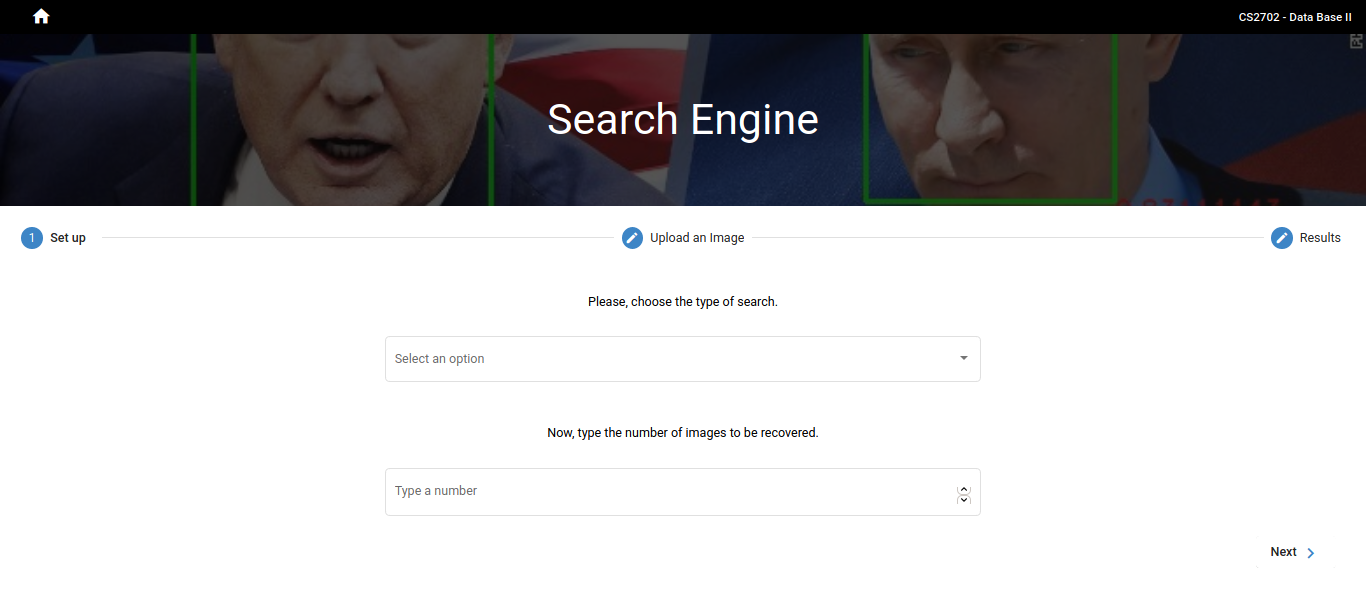
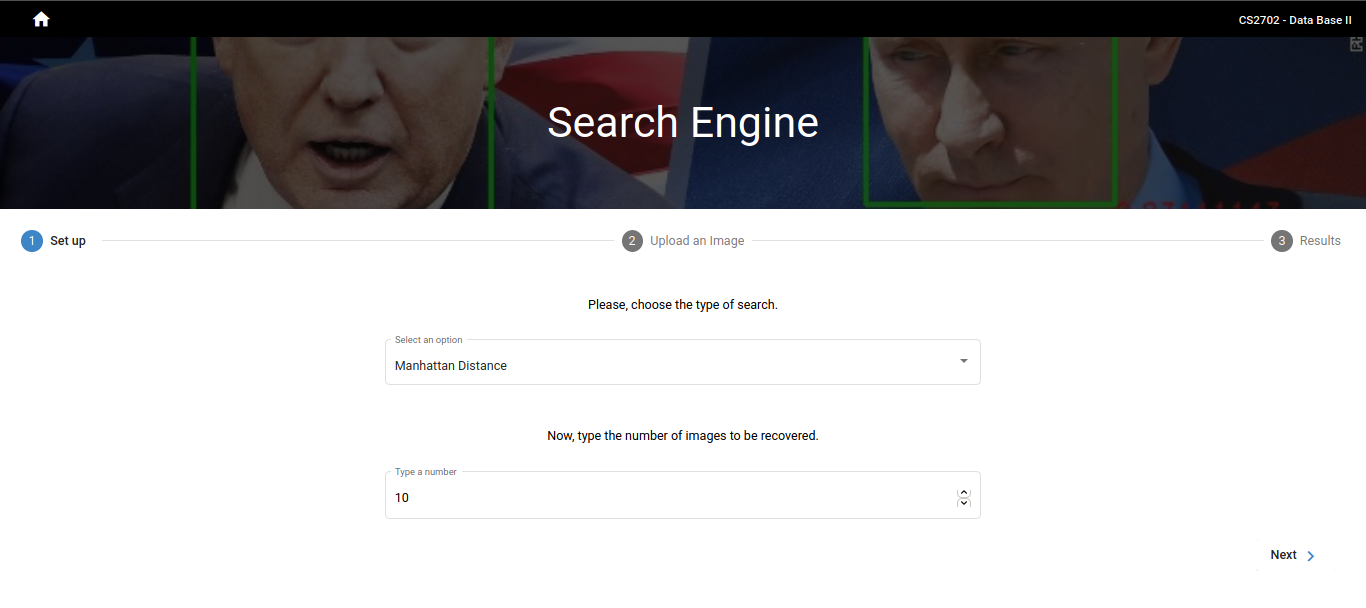
report update

diff --git a/README.md b/README.md
@@ -8,7 +8,7 @@
   - [Group members](#group-members)
 - [Implementation](#implementation)
   - [Backend](#backend)
-    - [Characteristics Extraction](#characteristics-extraction)
+    - [Features Extraction](#features-extraction)
     - [Indexing and Searching](#indexing-and-searching)
       - [Sequential KNN with Priority Queue (without index)](#sequential-knn-with-priority-queue-without-index)
       - [Experiment 1](#experiment-1)
@@ -95,13 +95,30 @@ Lastly, the first k elements of the priority queue are returned.
 
 ## Frontend
 
+The frontend was developed in **Angular 9** with Material Design components using **Material Angular** in components and services in a single default module.
 
+The frontend has two principal pages, the home page and the search engine page. In the first one is a brief info of what the project is, while in the second one is the three steps to execute the query. In the first step we need to choose the type of search that we want to do. It could be a *KNN Search Without indexing* using *Manhattan* or *Euclidian Distance*, and *KNN Search Indexed* using an *R-Tree*. Then, in the second steep we need to upload the image to be tested. It could in `.jpg`, `.png` or `.gif` extension. Finally, in the third steep there is the results of our query and the tested image.
+
+To communicate properly the backend and frontend an specific service (DataService) was create. In this service all the API calls was implemented (upload an image, execute KNN and execute KNN-Tree). Another service (MessageService) was created to uniformize all the status messages within all the pages in the webpage. In this way we can show the status of the API calls to the user and keep it informated of what is happening.
+
+As we are using **Material Angular** the whole webpage is responsive and user-friendly.
 
 ## Galery
 
+Here is some scheenshots of the webpage usage.
+
 **Home page**
+
 ![Set up](home.png)
 
 **Search engine**
+
+As aforementioned we need to choose the type of searching algorithm and the number of *k* neighbours that we want to retrieve from the dataset.
 ![Set up](search-eng-1.png)
+
+Then, we need to upload the image to be tested.
 ![Upload an image](search-eng-2.png)
+
+**Results**
+Finally, we are going to have the results of the query.
+![Result](search-eng-3.jpeg)
